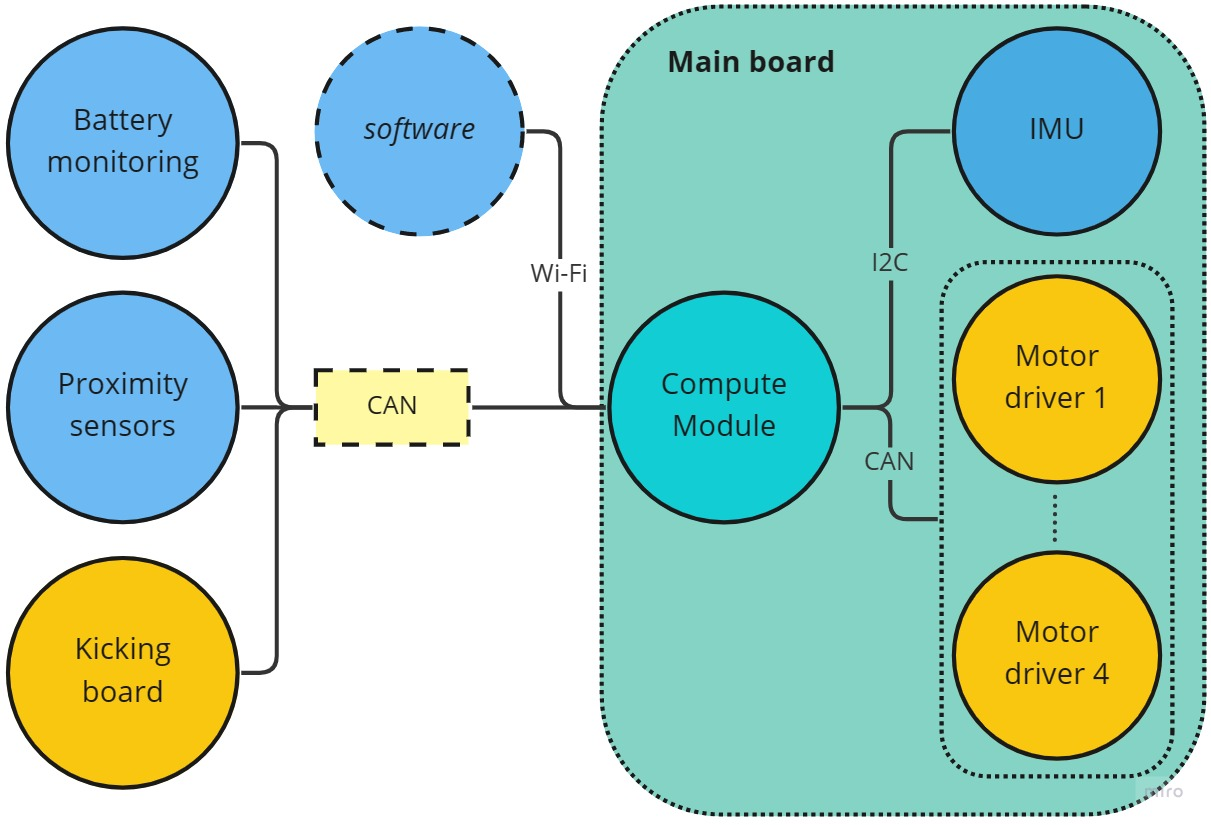
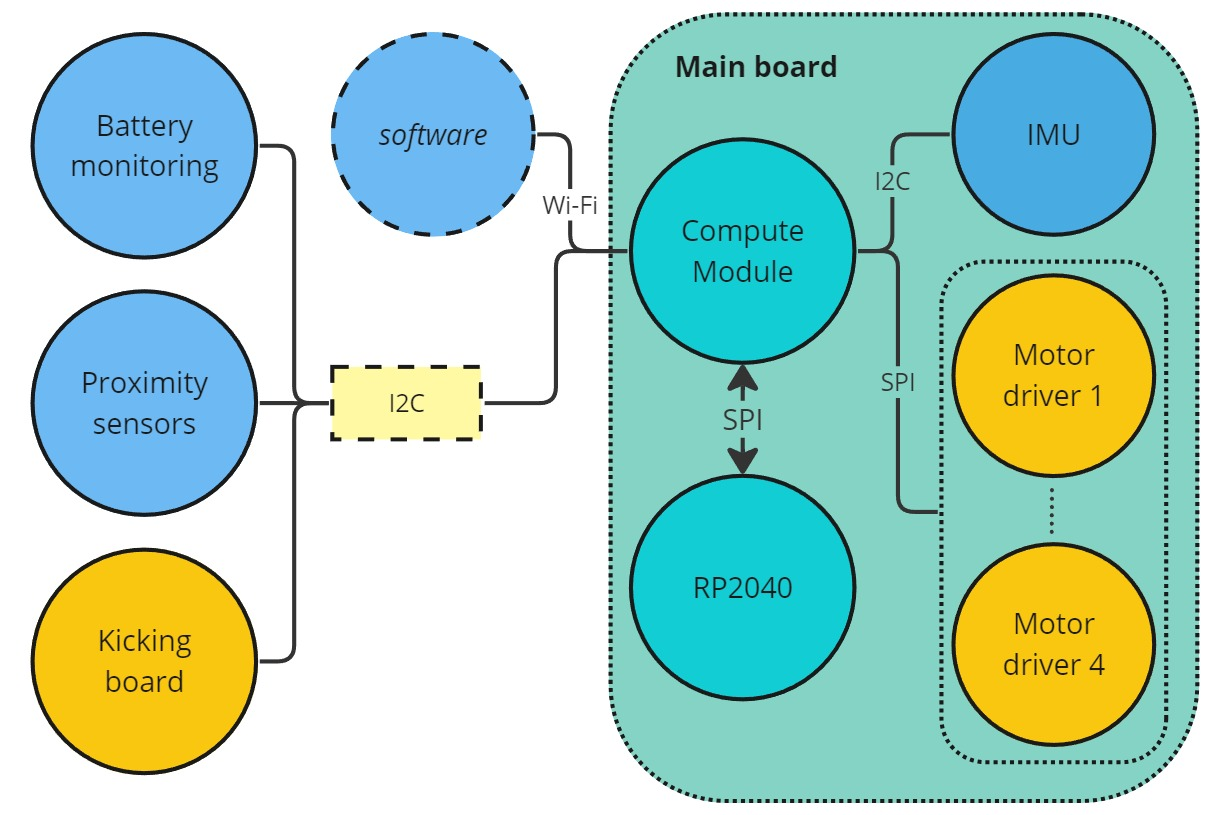
Updated electronics pictures.

diff --git a/etdp.tex b/etdp.tex
@@ -44,14 +44,13 @@ This paper describes the recent work that has been done by the Immortals Robotic
 \end{abstract}
 
 \section{Introduction}
-The Immortals Small Size League team was founded in 2008 and participated for the first time in RoboCup 2009 in Graz, and later won several awards, including 2nd place in RoboCup 2011 in Istanbul, and 3rd place in RoboCup 2023 in Bordeaux. The team currently consists of computer and electrical engineers.
-
+The Immortals Small Size League team was founded in 2008. We first participated in RoboCup 2009 in Graz. Later, we won several awards. This included 2nd place in RoboCup 2011 in Istanbul, and 3rd place in RoboCup 2023 in Bordeaux. The team currently consists of computer and electrical engineers.
 
 In the past year, our team focused on updating the electronics and software structure \cite{ref_ETDP2023}. These changes were aimed at improving the core functionalities of our system. While these updates represented a major step forward, they also introduced significant instability. Consequently, we were compelled to revert some parts of the system to older designs during RoboCup 2023.
 
-This year, our primary emphasis will pivot towards enhancing system robustness while capitalizing on the improved hardware and software foundation established through the modernization efforts. By prioritizing robustness enhancement, we aim to ensure a more stable and reliable performance of our system in future competitions.
+This year, our main focus will shift to enhancing system robustness. We will also capitalize on the improved hardware and software foundation established through modernization efforts. By prioritizing robustness enhancement, we aim to ensure a more stable and reliable performance of our system in future competitions.
  
-It is worth mentioning that we will be publishing our designs and software on our GitHub page \cite{ref_github} shortly after the competition is over.
+It is worth mentioning that we will publish our designs and software on our GitHub page \cite{ref_github} shortly after the competition is over.
 
 \begin{figure}
     \centering
@@ -73,9 +72,9 @@ It is worth mentioning that we will be publishing our designs and software on ou
 \end{figure}
 
 \section {Mechanics}
-Due to the optimal design of the previous robots, the mechanical design team decided not to overhaul the entire system, but rather to modify design details to improve the manufacturability and durability of the parts. In addition, recent advances in additive manufacturing techniques, which have resulted in more accurate and reliable 3D-printed parts, are driving our developments toward broader use of these elements and the replacement of several mechanical parts currently manufactured using conventional methods, such as turning and wire EDM, with additively manufactured parts to reduce costs and increase manufacturing and maintenance speeds.
+The mechanical design team decided not to overhaul the entire system. Instead, they chose to modify design details due to the optimal design of the previous robots. This change aims to improve the manufacturability and durability of the parts. Recent advances in additive manufacturing techniques have made 3D-printed parts more accurate and reliable. This is driving our developments toward broader use of these elements. We're also replacing several mechanical parts made using traditional methods, such as turning and wire EDM, with additively manufactured parts. This will cut costs and speed up manufacturing and maintenance.
 
-The manufacturing companies are consulted on the technical drawings of the revised design, and most of the manufacturing work for the new series of robots has been outsourced.
+Manufacturing companies are consulted on the technical drawings of the revised design. Most of the manufacturing work for the new series of robots has been outsourced.
 
 \section{Electronics}
 
@@ -87,59 +86,66 @@ The manufacturing companies are consulted on the technical drawings of the revis
     \item[$\bullet$] being more competitive
 \end{enumerate}
 
-it's important to highlight that the new designs worked well and addressed many of the issues we faced before. However, the changes also added far more complexity to the system. Additionally, the global shortage of chips, especially for the Compute Module, made it difficult to get all the components we needed. As a result, we weren't able to use the new boards for half of our robots like we had planned.
-
-TODO: change the pictures with the real boards.
+After writing last year's TDP and during the design and prototyping phase, we made several changes to the architecture that can be seen in Fig. \ref{fig:electronics-architecture}. These changes will be described in the following sections.
 
 \begin{figure}
 	\centering
 	\includegraphics[width=0.8\textwidth]{images/electronics-architecture.jpg}
-	\caption{The new electronics architecture}
+	\caption{New main board}
 	\label{fig:electronics-architecture}
 \end{figure}
 
+it's important to highlight that the new designs worked well and addressed many of the issues we faced before. However, the changes also added far more complexity to the system. Additionally, the global chip shortage, especially for the Compute Module, made it hard to get all the components we needed. As a result, we weren't able to use the new boards for half of our robots like we had planned.
+
 \subsection{Main board}
 
-Our current main board was designed last year and uses a Raspberry Pi Compute Module (CM) 4 as the local compute unit on the robot. 
-
-We also use its 5GHz WiFi as the wireless communication link. During last year's competition we observed satisfactory results using it, with results very similar to what we had measured in the lab. Therefore we didn't follow with adding an additional nRf wireless link.
-
-One design change we made after writing last year's TDP was to use Serial Peripheral Interface (SPI) to communicate with the motor controllers instead of CAN. The main reasons were simplicity and price. During development and testing, we couldn't find any issues with the simpler SPI bus that we hoped CAN could fix. And the chip shortage meant the price of anything that speaks CAN were much higher than in the past, as the auto industry had priority over others when it comes to CAN-capable devices.
-
-However, during the firmware implementation phase, we encountered significant challenges while attempting to utilize the SPI bus on the Raspberry Pi for communication with the motor controllers: the speed of this interface fell considerably short of our expectations. We were using linux's builtin SPI driver, with Trionamic's API on top of it. This meant each byte were sent separately to the kernel causing a kernel mode switch every time. TODO: add some numbers and fact-check these.
-
-This year we are using a manual implementation of the SPI bus, hoping that it would improve the performance. 
-
-\subsection{Motor driver}
-Our motor drivers are separate modules that sit on top of the main board. This greatly improves our ability to repair robots if one of the drivers fails. It also makes it easier to develop the main board and the motor drivers further separately.\\
-We use a dedicated BLDC motor driver IC, TMC4671. It implements Field Oriented Control (FOC) for BLDC motors and includes various control methods. This offloads the local motor control functionality from the main processor to dedicated hardware, which is more reliable in terms of latency.\\
-These drivers talk directly to the Compute Module using the SPI bus to receive both configuration and commands and to send back sensor data including speed and position. We use the TMC-API (TODO: ref) from Trinamic to make it easier to read from and write to the TMC4671's registers.\\
-We also use a power MOSFET driver IC, TMC6200. It drives the MOSFETs and senses the motor currents needed for the FOC algorithm. It also includes a fault detection mechanism. It shares the same SPI bus with TMC4671 and is directly connected to the Compute Module.\\
-TODO: add pictures of the final board.
-
-\subsection{Kicking board}
-Our kicking board (Fig. \ref{fig:mikona}) uses a dedicated LT3570 flyback capacitor charger IC driving a BSC109N10NS3G MOSFET connected to a DA2034 transformer for this circuit.\\
-After writing our last year's TDP, we switched to a simpler PIC microcontroller instead of the STM32. This resulted in major simplification that improved both reliablity and the cost.\\
-We also have a high-power resistor network consisting of three 2.4K 3W resistors to discharge the capacitors when needed without using the kicker magnets. The STN3N40K3 MOSFET driven by a ZXGD3009E6 is used to control the discharge.\\
-For the actual kicking, two IGB50N60T IGBTs driven by a single IX4427MTR are used to discharge the capacitors to the kicking magnets.\\
-It is also worth mentioning that the variable programmable resistor was removed after writing last year's TDP due to the lack of necessity. The boost voltage rarely changes and the change usually involved a corresponding hardware change, at which time we can simply re-calibrate the mechanical variable resistor instead.\\
+Our current main board (Fig. \ref{fig:main-board}) was designed last year and uses a Raspberry Pi Compute Module (CM) 4 as the local compute unit on the robot. 
 
 \begin{figure}
 	\centering
-    \begin{subfigure}[b]{0.45\textwidth}
-         \centering
-         \includegraphics[width=\textwidth]{images/mikona_top.png}
-         \caption{top-view}
-         \label{fig:mikona_top}
-    \end{subfigure}
-    \hfill
-    \begin{subfigure}[b]{0.45\textwidth}
-        \centering
-        \includegraphics[width=\textwidth]{images/mikona_bottom.png}
-        \caption{bottom-view}
-        \label{fig:mikona_bottom}
-    \end{subfigure}
+	\includegraphics[width=0.8\textwidth]{images/main-board.jpg}
+	\caption{New main board}
+	\label{fig:main-board}
+\end{figure}
 
+We also use its 5GHz WiFi as the wireless communication link. During last year's competition we observed satisfactory results using it, with results very similar to what we had measured in the lab. Therefore we didn't follow with adding an additional nRf wireless link.
+
+We made a design change after writing last year's TDP. Instead of using CAN, we now use Serial Peripheral Interface (SPI) to communicate with the motor controllers. The main reasons were simplicity and price. During development and testing, we couldn't find any issues with the simpler SPI bus that we hoped CAN could fix. The chip shortage caused the price of anything that speaks CAN to be much higher than in the past. The auto industry had priority over others for CAN-capable devices.
+
+However, during the firmware implementation phase, we encountered significant challenges. We attempted to utilize the SPI bus on the Raspberry Pi for communication with the motor controllers. However, the speed of this interface fell considerably short of our expectations. We were using linux's builtin SPI driver, with Trionamic's API on top of it. This meant each byte were sent separately to the kernel causing a kernel mode switch every time. TODO: add some numbers and fact-check these.
+
+This year we are using a manual implementation of the SPI bus, hoping that it would improve the performance.
+
+\subsection{Motor driver}
+Our motor drivers (Fig. \ref{fig:motor-driver}) are separate modules that sit on top of the main board. This greatly improves our ability to repair robots if one of the drivers fails. It also makes it easier to develop the main board and the motor drivers further separately.
+
+\begin{figure}
+	\centering
+	\includegraphics[width=0.8\textwidth]{images/motor-driver.jpg}
+	\caption{New motor driver module}
+	\label{fig:motor-driver}
+\end{figure}
+
+We use a dedicated BLDC motor driver IC, TMC4671. It implements Field Oriented Control (FOC) for BLDC motors and includes various control methods. This offloads the local motor control functionality from the main processor to dedicated hardware, which is more reliable in terms of latency.
+
+These drivers talk directly to the Compute Module using the SPI bus. They receive both configuration and commands, and send back sensor data including speed and position. We use the TMC-API (TODO: ref) from Trinamic to make it easier to read from and write to the TMC4671's registers.
+
+We also use a power MOSFET driver IC, TMC6200. It drives the MOSFETs and senses the motor currents needed for the FOC algorithm. It also includes a fault detection mechanism. It shares the same SPI bus with TMC4671 and is directly connected to the Compute Module.
+
+\subsection{Kicking board}
+Our kicking board (Fig. Figure \ref{fig:mikona} uses a dedicated LT3570 flyback capacitor charger IC. It drives a BSC109N10NS3G MOSFET connected to a DA2034 transformer for this circuit.
+
+After writing our last year's TDP, we switched to a simpler PIC microcontroller instead of the STM32. This resulted in major simplification that improved both reliablity and the cost.
+
+We also have a high-power resistor network. It consists of three 2.4K 3W resistors. It discharges the capacitors when needed, without using the kicker magnets. The STN3N40K3 MOSFET driven by a ZXGD3009E6 is used to control the discharge.
+
+For the actual kicking, two IGB50N60T IGBTs driven by a single IX4427MTR are used to discharge the capacitors to the kicking magnets.
+
+It is also worth mentioning that the variable programmable resistor was removed after writing last year's TDP. This was because it was not necessary. The boost voltage rarely changes. When it does change, it usually involves a corresponding hardware change. At that time, we can simply re-calibrate the mechanical variable resistor instead.
+
+\begin{figure}
+    \centering
+    \includegraphics[width=\textwidth]{images/mikona.jpg}
     \caption{The new kicking board design}
     \label{fig:mikona}
 \end{figure}
